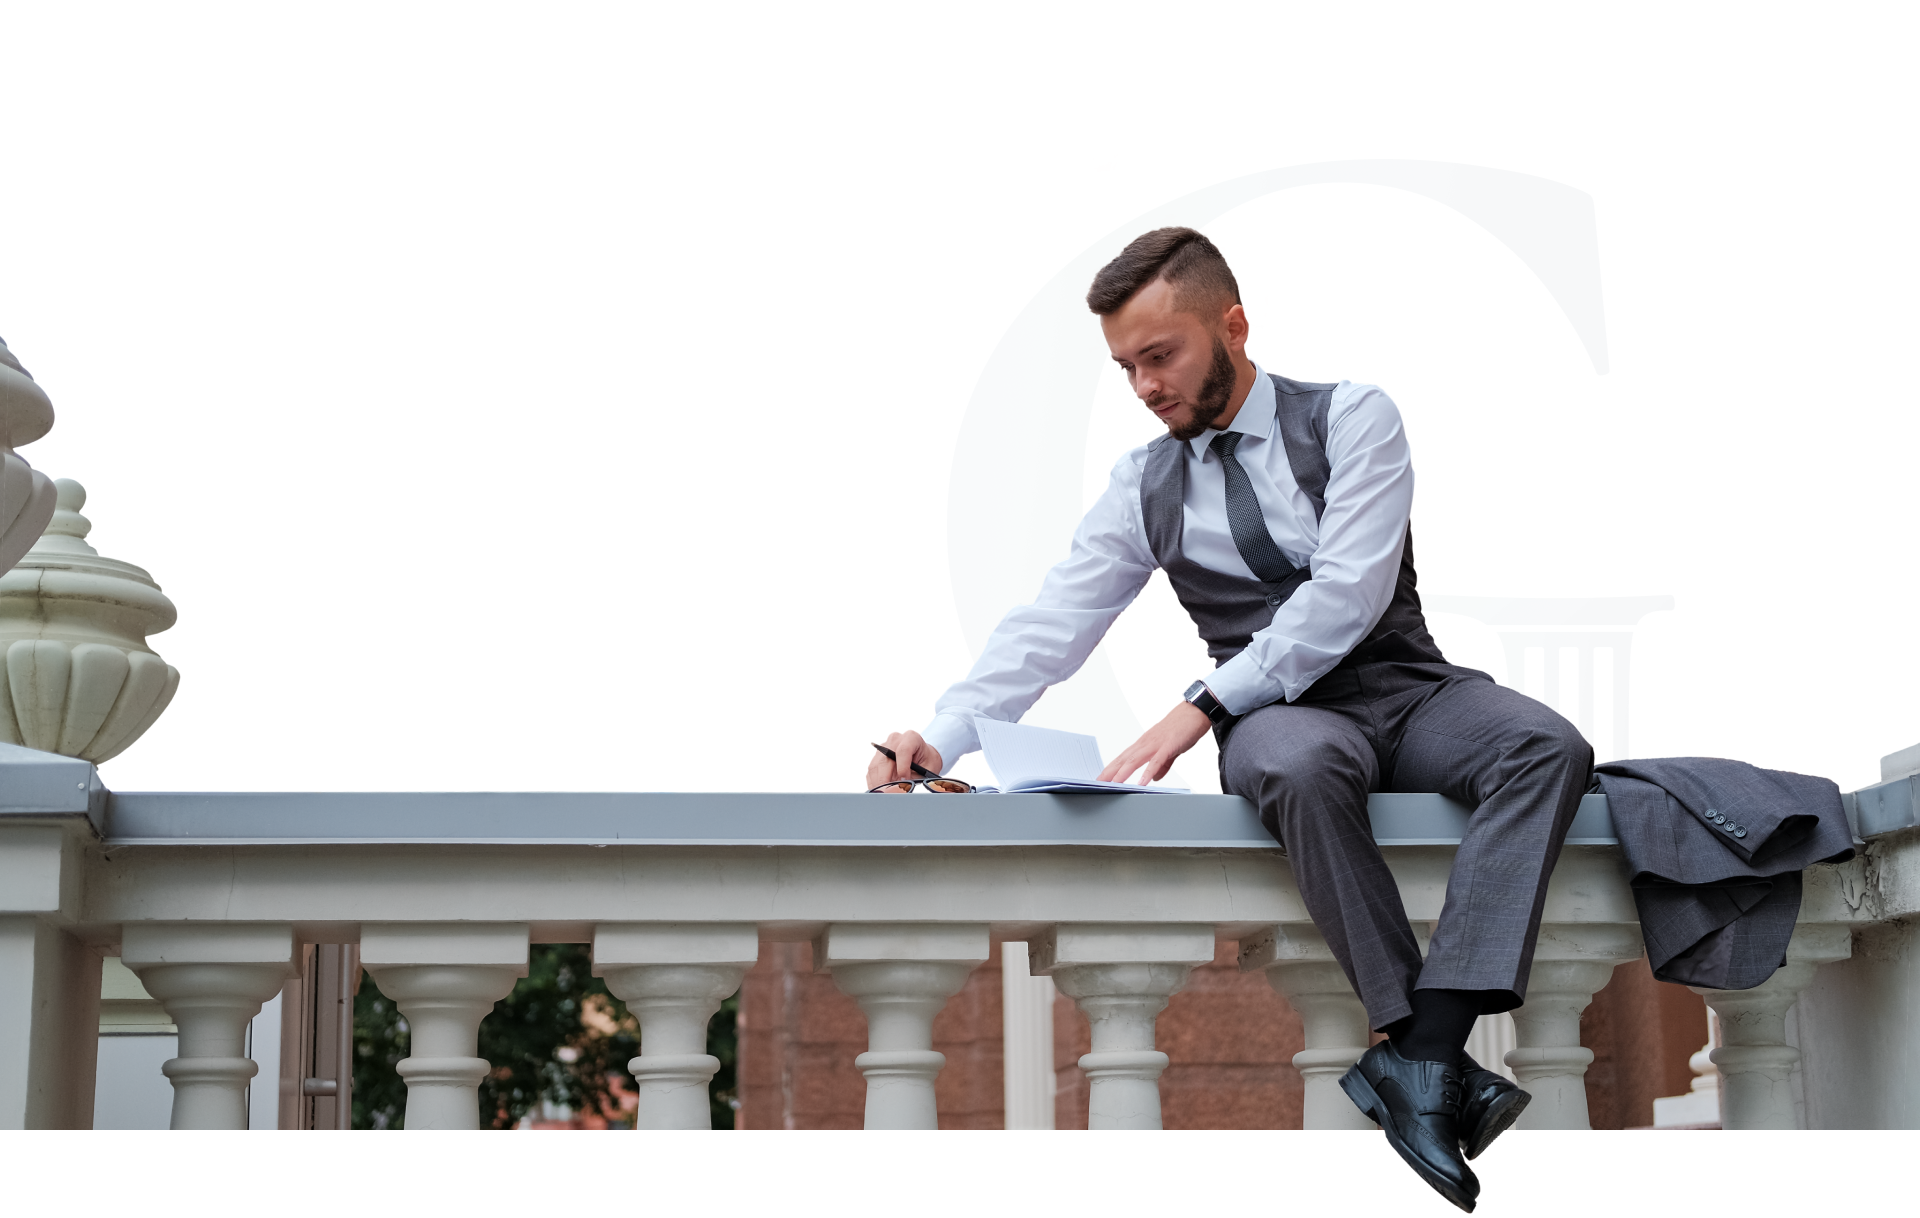
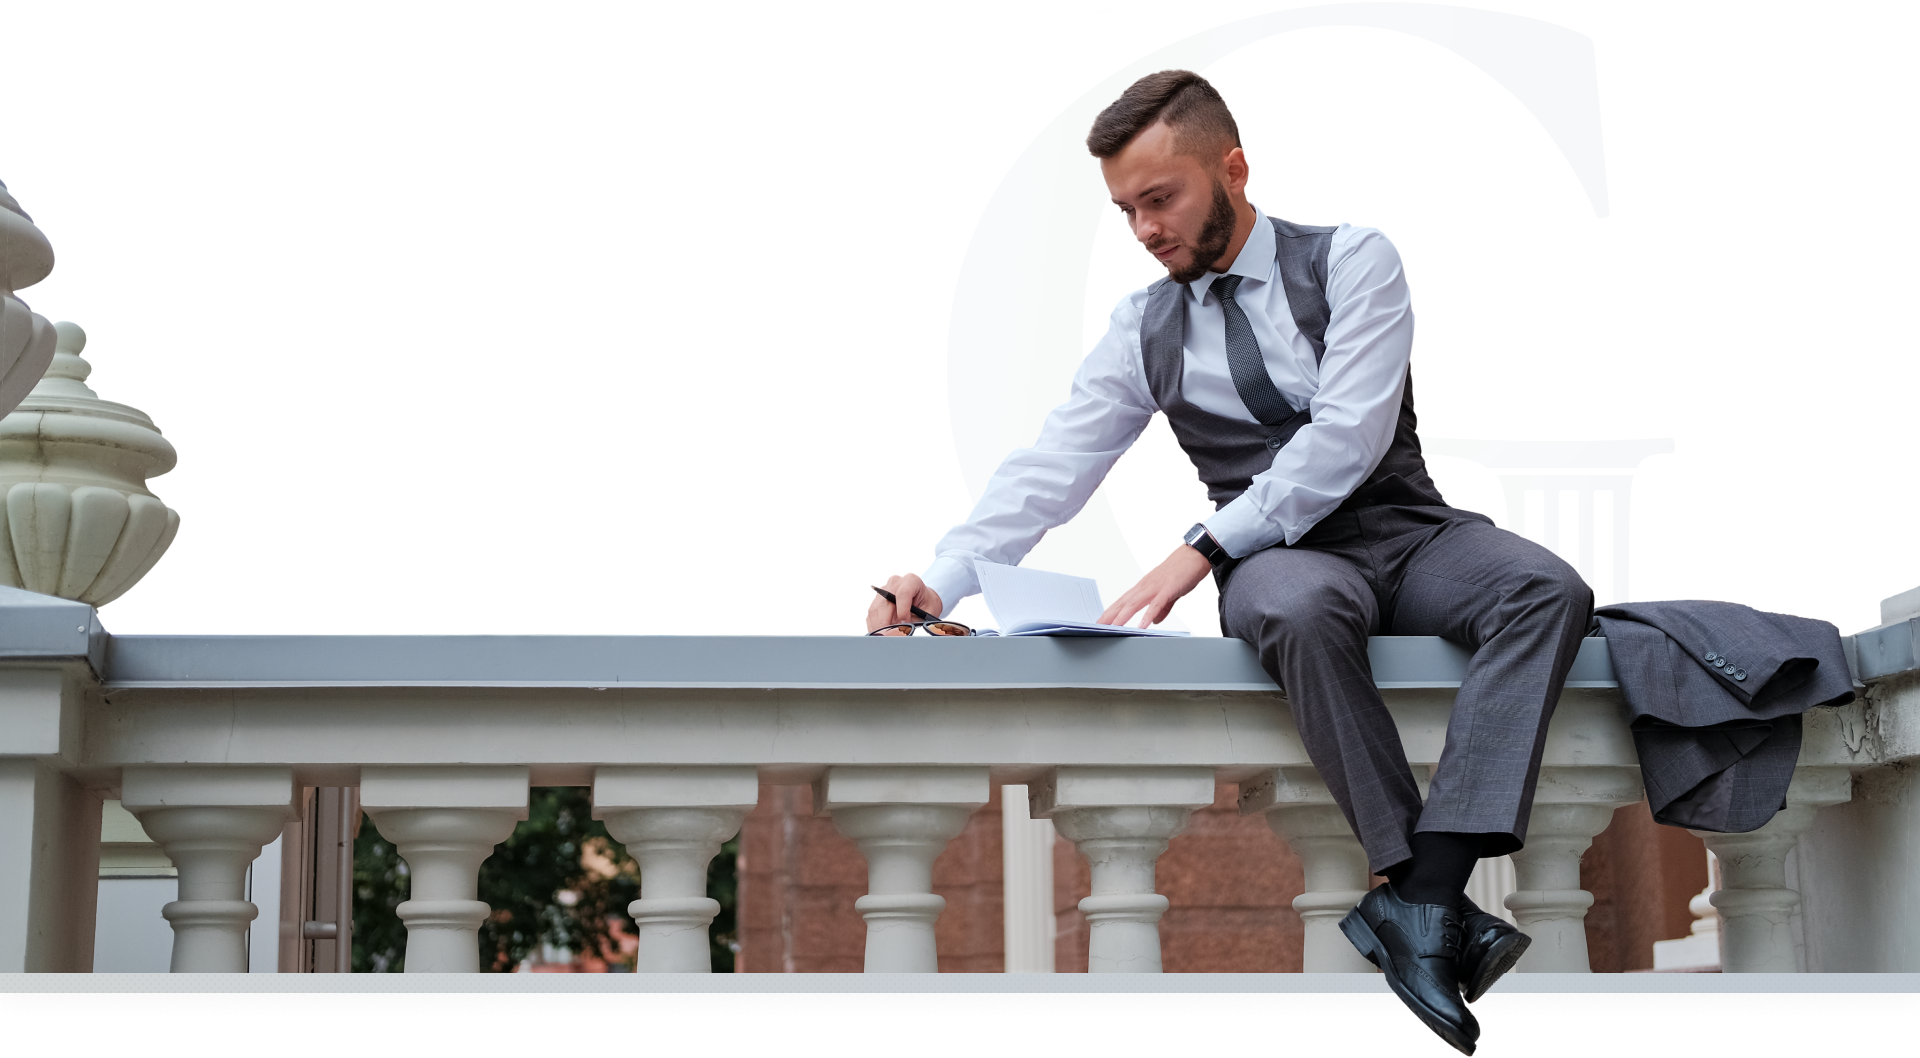
fix

diff --git a/src/index.html b/src/index.html
@@ -50,7 +50,7 @@
             <div class="content__block container">
                 <div class="content__info">
                     <h1 class="content__title">Юридические услуги</h1>
-                    <p class="content__appeal">Доверьте своё дело профессионалам и Ваш спор решится
+                    <p class="content__appeal">Доверьте своё дело профессионалам и Ваш спор решится<br>
                     без длительных судебных разбирательств</p>
                     <a class="content__submit button" href="#" type="button">Получить консультацию</a>      
                     <div class=" content__signature">
@@ -127,7 +127,7 @@
                         <img class="services__image" src="./assets/images/photo-7.png" alt="Составление претензий, заявлений">
 
                     <div class="services__product">
-                        <h3 class="services__product-title">Составление претензий, заявлений</h3>
+                        <h3 class="services__product-title">Составление претензий,<br>заявлений</h3>
                         <p class="services__product-italics">от 1 000 руб</p>
                     </div>
                     </li>
@@ -182,7 +182,7 @@
     </section>
 
     <section class="about-me" id="about-me">
-        <img src="/assets/images/Art.png" alt="" class="about-me__photo">
+        <img  src="/assets/images/art.png" alt="" class="about-me__photo">
         <div class="container about-me__info">
             <div class="about-me__block">
                 <h2 class="about-me__title">О нас</h2>
@@ -261,7 +261,7 @@
                     <img class="advantages__image" src="./assets/images/clients.png" alt="Списание долгов">
 
                 <div class="advantages__strides">
-                    <p class="advantages__strides-text">Более 100 клиентов со списанными долгами</p>
+                    <p class="advantages__strides-text">Более 100 <br> клиентов со списанными долгами</p>
                 </div>
                 </li>
                 <li class="advantages__item">
@@ -331,7 +331,7 @@
                 </li>
                 <li class="questions__item js-list-item">
                     <div class="questions__answer" >
-                        <h3 class="questions__title-list">- Как долго идёт процедура банкротства?</h3>
+                        <h3 class="questions__title-list">- Часто ли споры по взысканию задолженности с ответчика разрешаются без суда?</h3>
                         <button class="questions__plus js-btn-list"></button>
                     </div>
                     <div class="questions__answer-to">
@@ -404,7 +404,7 @@
     <footer class="footer">
         <div class="footer__info container">
             <span class="footer__confidentiality"><a class="footer__link" href="#">Политика конфиденциальности</a></span>
-            <span class="footer__rights">Copyright © 2023 «Габитов и партнеры» — Все права защищены.</span>
+            <span class="footer__rights"><a class="footer__link" href="#">Copyright © 2023 «Габитов и партнеры» — Все права защищены.</a></span>
         </div>
     </footer>
 </body>

diff --git a/src/styles/blocks/services.scss b/src/styles/blocks/services.scss
@@ -1,13 +1,15 @@
 .services {
     margin-top: 100px;
-    margin-bottom: 160px;
-
+    
     &__title {
     font-weight: 500;
     font-size: 40px;
     line-height: 48px;
     color: #323A38;
-    padding-bottom: 30px;
+    padding-bottom: 32px;
+}
+&__image {
+    border-radius: 5px 5px 0px 0px;
 }
 &__list {
     display: flex;
@@ -19,18 +21,15 @@
 &__item {
     display: flex;
     flex-direction: column;
-    width: 32%;
+    width: 32%;    
+}
+&__product {
+    padding: 15px 25px 18px;
     background: #FFFFFF;
     border-width: 0px 1px 1px 1px;
     border-style: solid;
     border-color: #EBEAF0;
     border-radius: 0px 0px 5px 5px;
-    
-    
-}
-&__product {
-    padding: 15px 25px 18px;
-    background: #FFFFFF;
 }
 
 &__image {
@@ -51,9 +50,6 @@
     color: #909499;
     
 }
-
-
-
 }
 
 

diff --git a/src/styles/blocks/questions.scss b/src/styles/blocks/questions.scss
@@ -26,13 +26,13 @@
     background: #FFFFFF;
     box-shadow: 0px 4px 40px rgba(0, 0, 0, 0.05);
     border-radius: 5px;
-    padding: 16px 25px;
     margin-bottom: 20px;
     align-items: center;
 }
 &__answer {
     display: flex;
     justify-content: space-between;
+    padding: 20px 25px;
 }
 
 &__text {
@@ -40,14 +40,20 @@
 }
 
 &__item--open {
+    
+    border: 1px solid #EBEAF0;
+    box-shadow: 0px 4px 40px rgba(0, 0, 0, 0.05);
+    border-radius: 5px;
+    
     .questions__text {
     display: block;
     font-weight: 400;
     font-size: 18px;
     line-height: 28px;
     color: #323A38;
-    padding-right: 13px;
-    padding-left: 13px;
+    padding-right: 140px;
+    padding-left: 38px;
+    padding-bottom: 30px;
     }
     .questions__answer {
         padding-bottom: 22px;

diff --git a/src/styles/blocks/qualification.scss b/src/styles/blocks/qualification.scss
@@ -5,9 +5,9 @@
     border-radius: 5px;
     position: relative;
     box-shadow: 0px 4px 60px rgba(0, 0, 0, 0.05);
-    padding-top: 40px;
-    padding-bottom: 30px;
-    padding-left: 80px;
+    padding-top: 24px;
+    padding-bottom: 12px;
+    padding-left: 110px;
     background-image: url(/public/images/blur.png), url(/public/images/texture.png);
     background-size: 100%;
 }
@@ -38,11 +38,12 @@ max-height: 56px;
 }
 &__diploma-list {
     display: flex;
+
 }
 &__img {
     position: absolute;
-    right: -78px;
-    top: 52px;
+    right: -70px;
+    top: 34px;
 }
 &__item {
     padding-left: 12px;
@@ -60,7 +61,7 @@ max-height: 56px;
 }
 &__diploma-list {
     display: flex;
-    margin-top: 60px;
+    margin-top: 46px;
     gap: 20px;
 }
 &__link-see-pdf {

diff --git a/src/styles/blocks/my-contacts.scss b/src/styles/blocks/my-contacts.scss
@@ -27,7 +27,7 @@
   &__info {
     display: flex;
     flex-direction: column;
-    margin-top: 48px;
+    margin-top: 40px;
     margin-left: 80px;
   }
 
@@ -60,6 +60,7 @@
     align-items: center;
     gap: 20px;
     margin-bottom: 40px;
+    margin-top: 15px;
   }
   &__link {
     display: flex;
@@ -92,7 +93,7 @@
   }
 
   &__input {
-    margin-bottom: 20px;
+    margin-bottom: 17px;
     background: #ffffff;
     border: 1px solid #dde8ee;
     border-radius: 5px;
@@ -156,7 +157,7 @@
     }
   }
   &__button {
-    margin-top: 13px;
+    margin-top: 4px;
     margin-bottom: 100px;
   }
 

diff --git a/src/styles/blocks/content.scss b/src/styles/blocks/content.scss
@@ -1,10 +1,15 @@
 .content {
-  background-image: url(/public/images/bg.png);
+
+  background-image:url(/public/images/bg.png);
   background-repeat: no-repeat;
   background-position: 106% -30px;
-  padding-top: 140px;
+  padding-top: 130px;
+  border: 1px solid #EBEAF0;
+  box-shadow: 0px 30px 40px -26px rgba(0, 0, 0, 0.05);
+  
   &__block {
     display: flex;
+    justify-content: space-between;
   }
   &__title {
     margin-top: 0;
@@ -13,6 +18,7 @@
     line-height: 97px;
     color: #323a38;
     margin-bottom: 30px;
+    margin-top: 10px;
   }
   &__appeal {
     font-weight: 400;

diff --git a/src/styles/blocks/about-me.scss b/src/styles/blocks/about-me.scss
@@ -1,6 +1,6 @@
 .about-me {
-    margin-bottom: 100px;
-        position: relative;
+    margin-bottom: 40px;
+    position: relative;
 
 &__title {
     font-weight: 500;
@@ -24,6 +24,7 @@ margin-bottom: 0;
 
 &__photo {
     width: 100%;
+    padding-top: 160px;
 }
 
 &__info {
@@ -31,22 +32,12 @@ margin-bottom: 0;
     left: 0;
     right: 0;
     top: 0;
-    left: 110px;
+    left: 0px;
     right: 0;
-    top: 20%;
+    top: 168px;
 }
 &__block {
-    width: 47%;
+    width: 49%;
+    padding-top: 158px;
 }
-
-
-
-
-
-
-
-
-
-
-
 }

diff --git a/src/styles/blocks/header.scss b/src/styles/blocks/header.scss
@@ -2,7 +2,7 @@
   box-shadow: 0px 4px 60px rgba(0, 0, 0, 0.05);
   &__row {
     padding-top: 14px;
-    padding-bottom: 14px;
+    padding-bottom: 4px;
     display: flex;
     justify-content: space-between;
     align-items: center;
@@ -79,3 +79,4 @@
     }
   }
 }
+

diff --git a/src/styles/blocks/advantages.scss b/src/styles/blocks/advantages.scss
@@ -1,5 +1,5 @@
 .advantages {
-    margin-top: 100px;
+    margin-top: 114px;
     margin-bottom: 100px;
 
 &__title {

diff --git a/src/js/scripts.js b/src/js/scripts.js
@@ -1,3 +1,4 @@
+
 const items = document.querySelectorAll(`.js-list-item`);
 
 const openList = (item) => {
